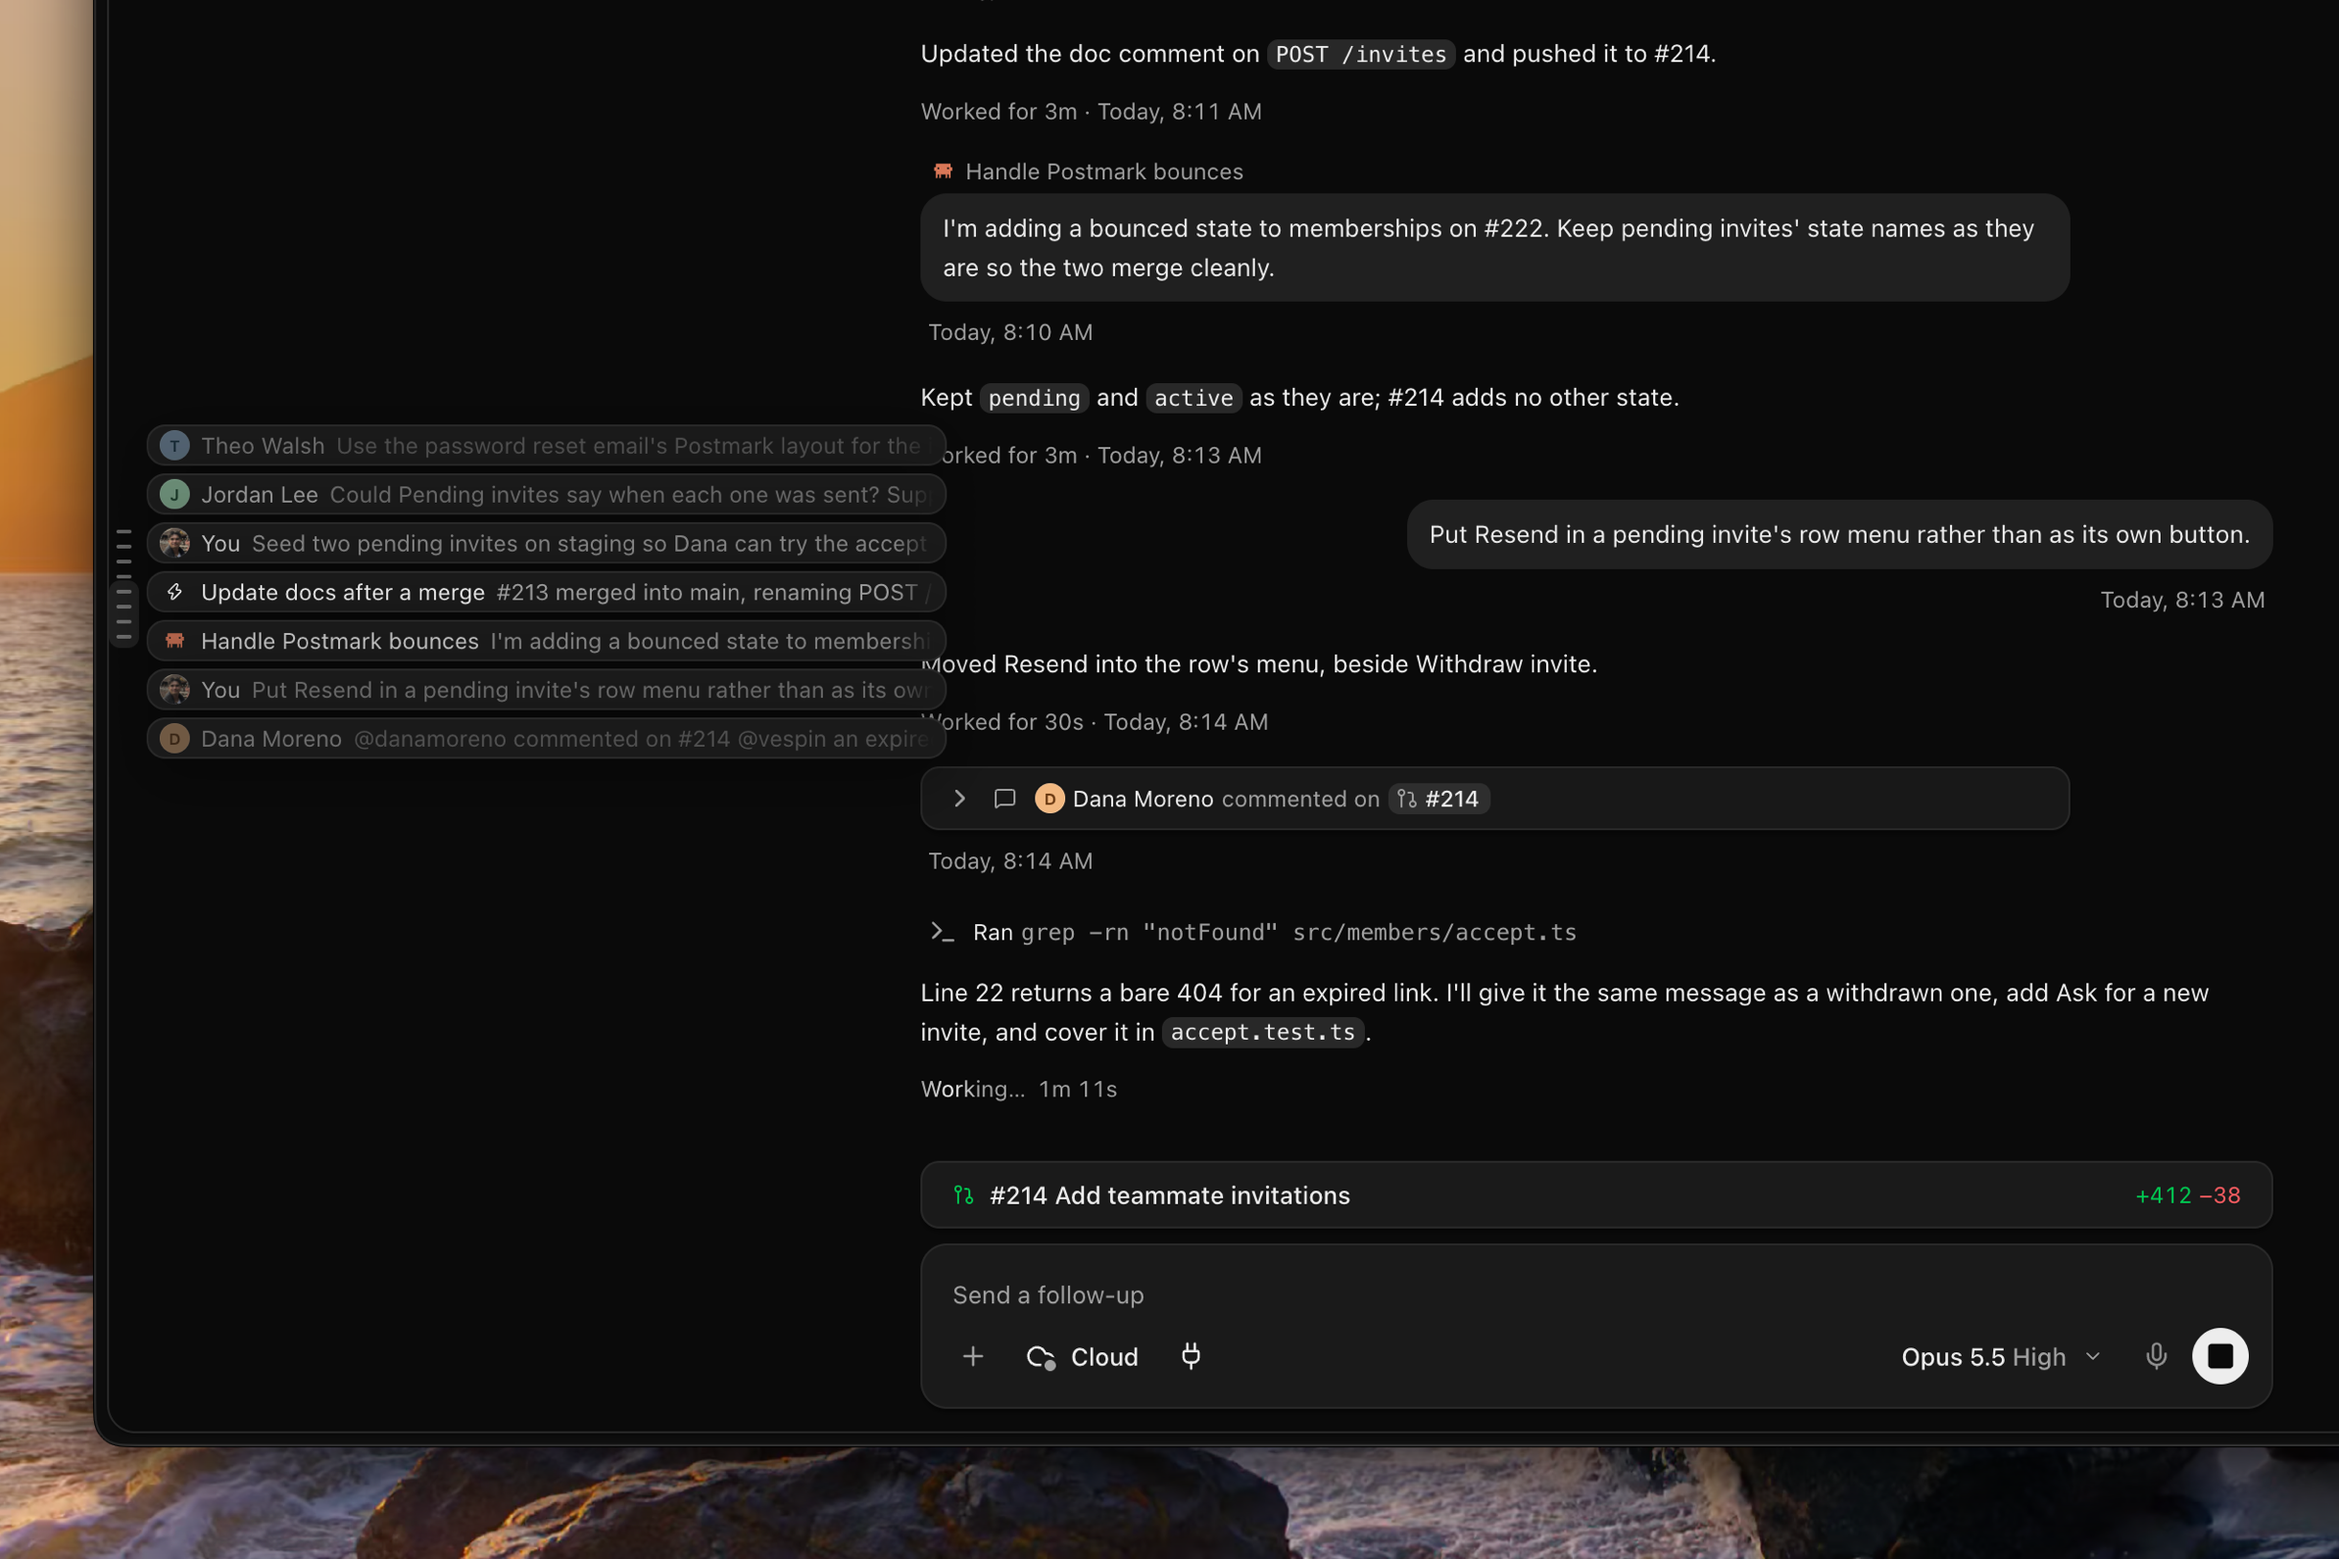
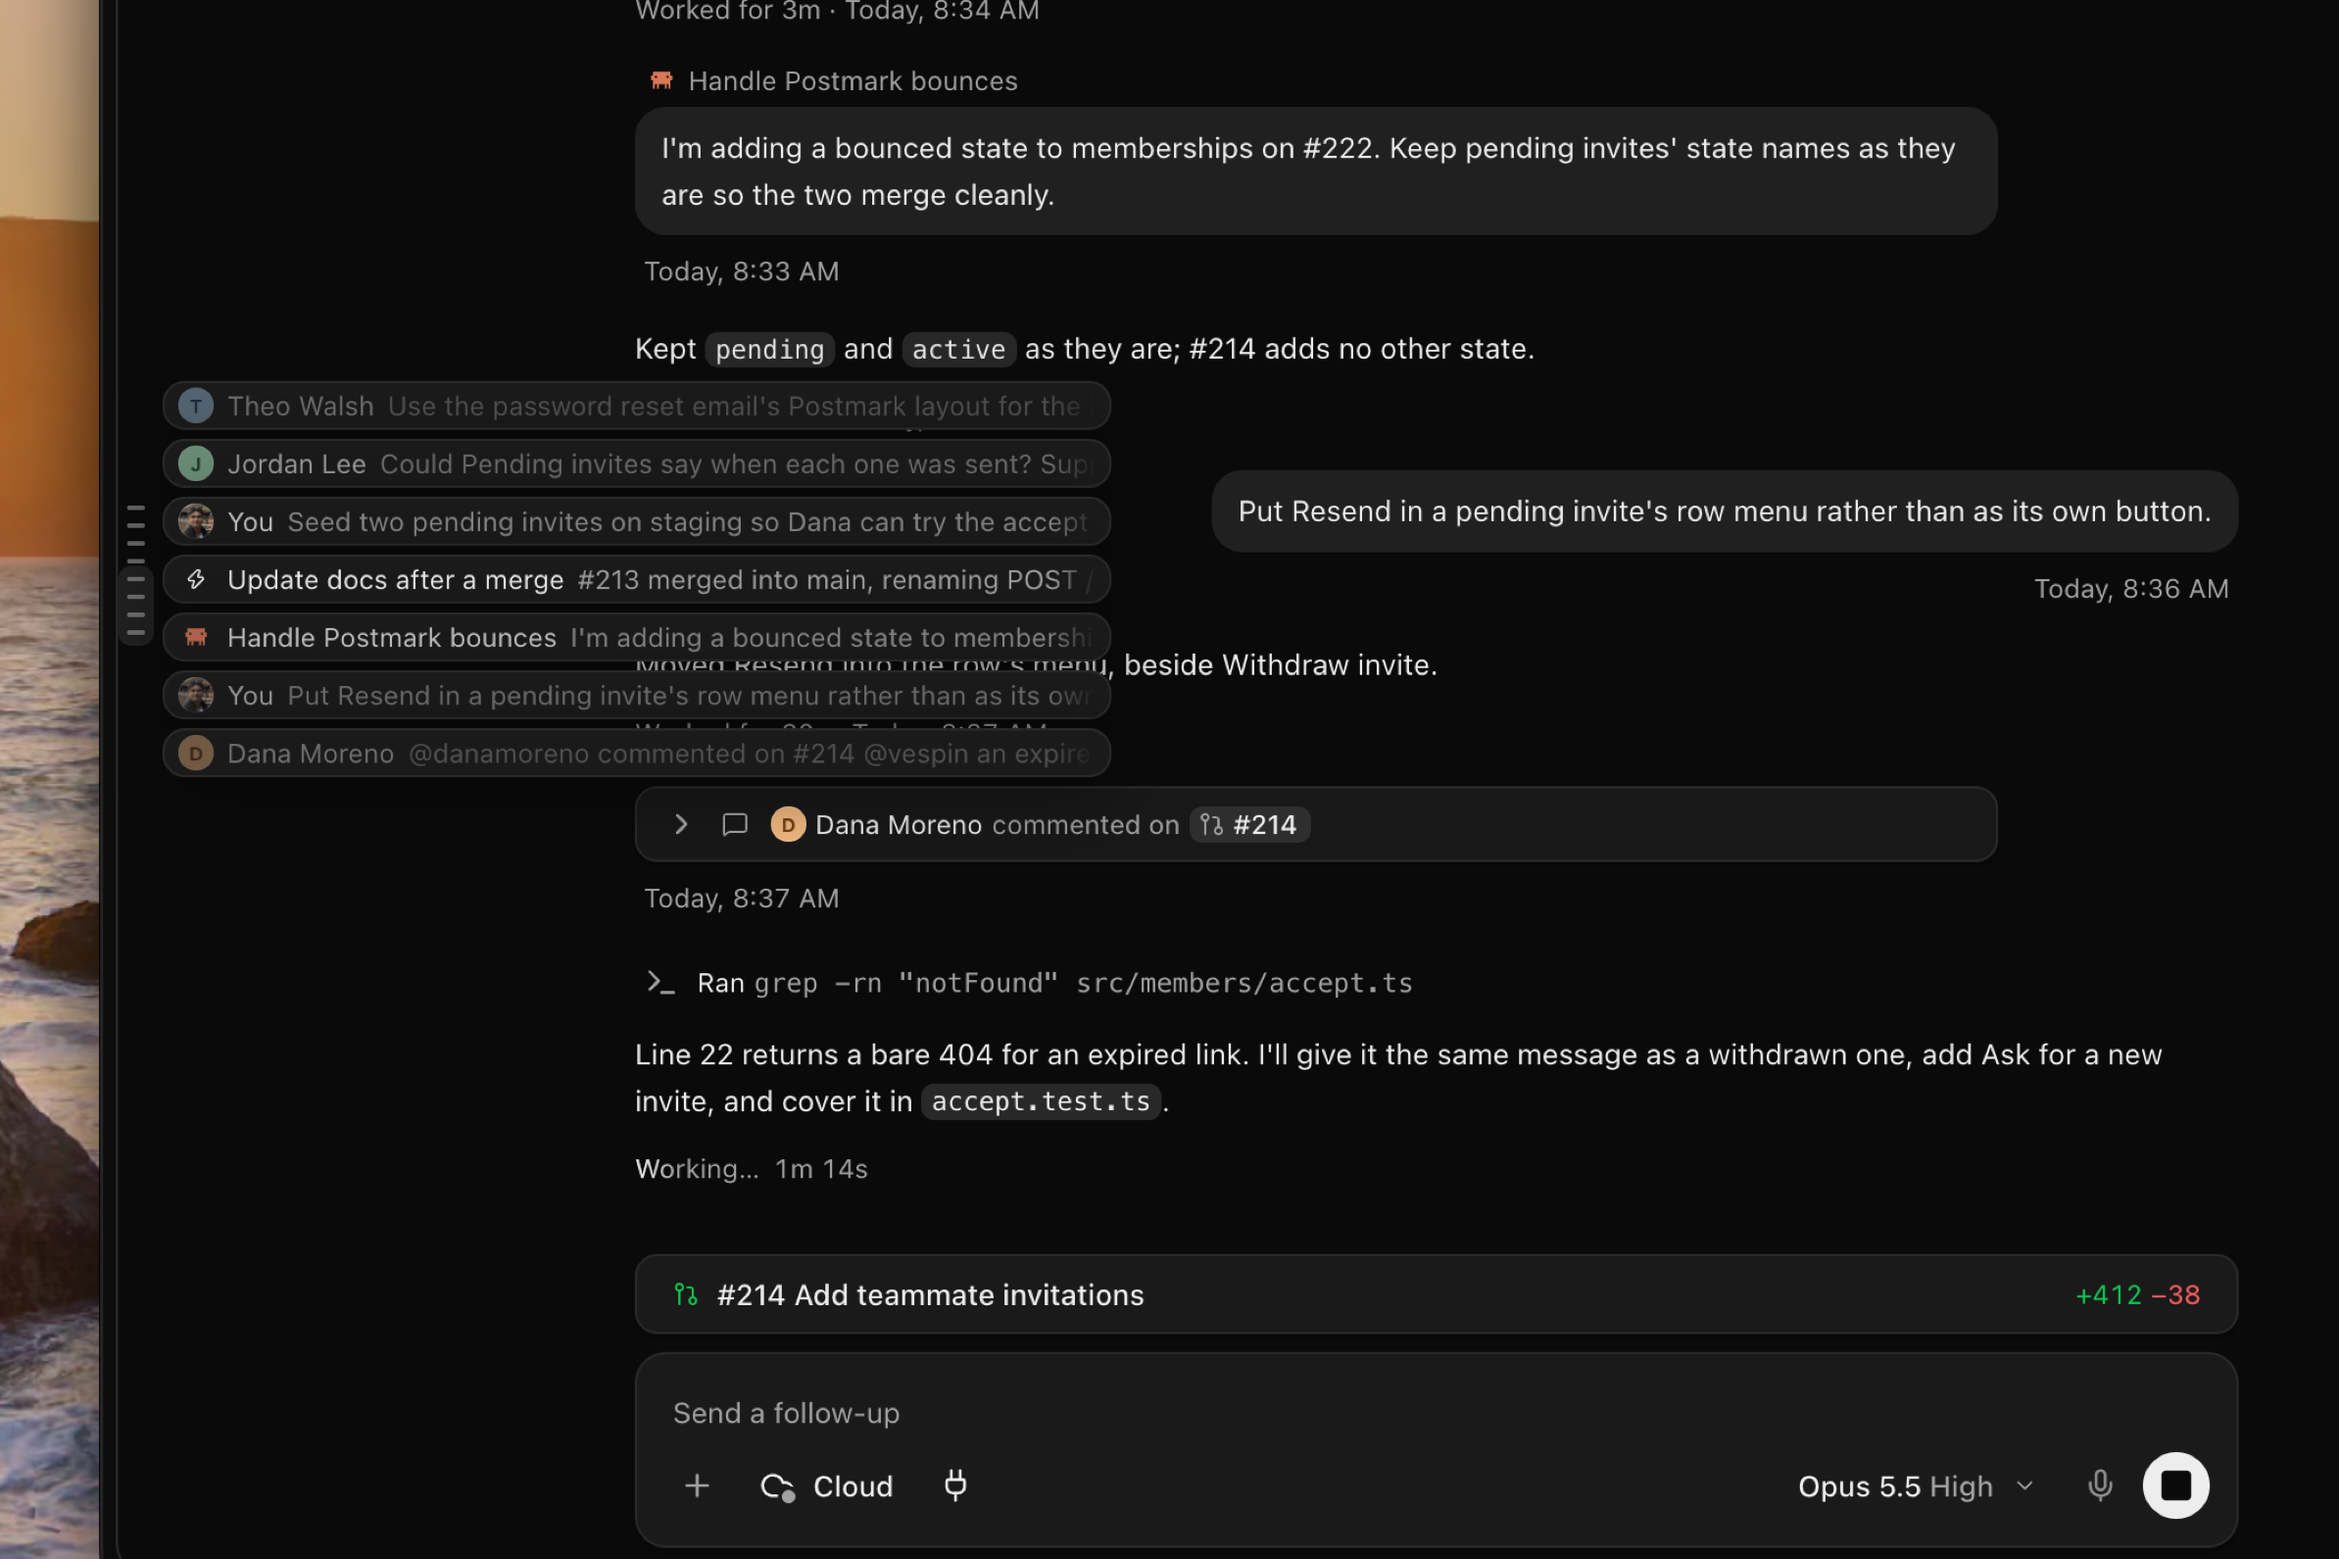
docs(changelog): take 0.35.0's rail picture in a narrower window, cropped closer

diff --git a/.agents/skills/changelog-screenshots/staging/releases/README.md b/.agents/skills/changelog-screenshots/staging/releases/README.md
@@ -88,7 +88,7 @@ adjusting, and capture with the same profile, zoom, and crop.
 | 0.34.0 | `v0.34.0` (`74fdd158`) | `mention-vespin-on-github.png` | none: two GitHub comments, Dana's mention with its 👀 and the bot's reply, on GitHub's dark ground, the `abstract` page `v0.34.0-github-mention.py` builds from Primer CSS and Octicons, rendered by the Mac's Chrome (`--headless=new --force-device-scale-factor=2 --window-size=1200,796 --screenshot`) | — | 2400 by 1592, unframed |
 | 0.34.0 | `v0.34.0` (`74fdd158`) | not landed: the agent's transcript with Dana's GitHub comment line (`shot-github-mention`), replaced by the mockup; the issue page in a Chrome window (the generator's `page`), replaced by the two comments; the Automations list (`shot-automations`), the one-time editor (`shot-automation-once`), and its Runs dropdown (`shot-automation-runs`), none of which said Once simply; and the transcript rail's list (`shot-rail`), held for the rail's redesign, which 0.35.0 pictures | — | — | — |
 | 0.35.0 | `v0.35.0` (`0877468d`) | `following.png` | `shot-following` (`APP_SHOT_SETTLE=14`) | 1 | `-40,-40,1370,914` |
-| 0.35.0 | `v0.35.0` (`0877468d`) | `find-and-jump-to-any-message.png`, taken Nov 20, 2026 for the rail's redesign (#9162) | `shot-rail` (`APP_SHOT_SETTLE=14`), a pointer over the automation's line | 1 | `-50,230,1245,830` |
+| 0.35.0 | `v0.35.0` (`0877468d`) | `find-and-jump-to-any-message.png`, taken Nov 20, 2026 for the rail's redesign (#9162) | `shot-rail` (`APP_SHOT_SIZE=1200x1000 APP_SHOT_SETTLE=14`), a pointer over the automation's line; a window 1200 wide so the transcript stands under the stack (zoom 2 cannot fit 1000 points tall on the Mac's display) | 1 | `-45,285,1050,700` |
 | 0.36.0 | `v0.36.0` (`667ef6bb`) | `cloud-sandbox-size.png` | `shot-sandbox-size` (`APP_SHOT_SETTLE=12`) | 2 | `586,82,675,450`, then `sips --cropToHeightWidth 827 2387 --cropOffset 1 0`: 2387 by 827 |
 | 0.37.0 | `v0.37.0` (`f1aa5086`) | `a-cursor-for-each-agent.png` | none: `v0.37.0-agent-cursors.html`, Charles's HyperFrames loop for X carried onto the changelog's canvas, its frame at 6.9 s (`hyperframes snapshot --at 6.9`, HyperFrames 0.8.226) | — | 2400 by 1591, its desktop the Golden Gate Sunset aerial |
 
